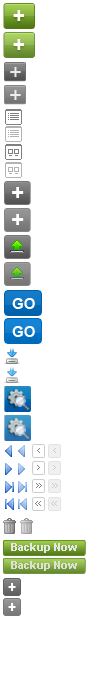
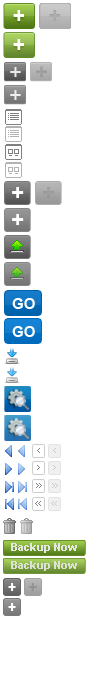
add forceAddClass class simulator and search rules pages

diff --git a/searchManager/WebContent/css/bigbets/bigbets.css b/searchManager/WebContent/css/bigbets/bigbets.css
@@ -120,6 +120,24 @@ background: linear-gradient(to bottom,  #dcdcdc 0%,#fafafa 100%); /* W3C */
 filter: progid:DXImageTransform.Microsoft.gradient( startColorstr='#dcdcdc', endColorstr='#fafafa',GradientType=0 ); /* IE6-8 */
 }
 
+/* highlight */
+div.tileView ul.boxContainer li.forceAddClass  { 
+	background: #f7efc1; /* Old browsers */
+	/* IE9 SVG, needs conditional override of 'filter' to 'none' */
[1 lines of base64/hex data omitted]
+	background: -moz-linear-gradient(top,  #f7efc1 0%, #f8f4d9 100%); /* FF3.6+ */
+	background: -webkit-gradient(linear, left top, left bottom, color-stop(0%,#f7efc1), color-stop(100%,#f8f4d9)); /* Chrome,Safari4+ */
+	background: -webkit-linear-gradient(top,  #f7efc1 0%,#f8f4d9 100%); /* Chrome10+,Safari5.1+ */
+	background: -o-linear-gradient(top,  #f7efc1 0%,#f8f4d9 100%); /* Opera 11.10+ */
+	background: -ms-linear-gradient(top,  #f7efc1 0%,#f8f4d9 100%); /* IE10+ */
+	background: linear-gradient(to bottom,  #f7efc1 0%,#f8f4d9 100%); /* W3C */
+	filter: progid:DXImageTransform.Microsoft.gradient( startColorstr='#f7efc1', endColorstr='#f8f4d9',GradientType=0 ); /* IE6-8 */
+	border:2px solid #f7e99b; padding:0 !important; float:left; display: inline; width:224px; margin:10px 7px; }
+
+div.tileView ul.boxContainer li.forceAddClass div.bgShade { 
+ background: transparent;
+}
+
 div.tileView ul.boxContainer li div.bgShade label { margin:0 !important; padding:0 }
 div.tileView ul.boxContainer li div.picArea { text-align: center; height: 100px; overflow: hidden; margin-top:17px; margin-bottom:10px;  }
 div.tileView ul.boxContainer li div.picArea img { border:1px solid #f2f2f2 }
@@ -156,6 +174,24 @@ background: linear-gradient(to bottom,  #dcdcdc 0%,#fafafa 100%); /* W3C */
 filter: progid:DXImageTransform.Microsoft.gradient( startColorstr='#dcdcdc', endColorstr='#fafafa',GradientType=0 ); /* IE6-8 */
 height: 20px; margin:0 !important; padding:8px;
 }
+
+/* highligh */
+div.listView ul.boxContainer li.forceAddClass  { background: #f7efc1; /* Old browsers */
+/* IE9 SVG, needs conditional override of 'filter' to 'none' */
[1 lines of base64/hex data omitted]
+background: -moz-linear-gradient(top,  #f7efc1 0%, #f8f4d9 100%); /* FF3.6+ */
+background: -webkit-gradient(linear, left top, left bottom, color-stop(0%,#f7efc1), color-stop(100%,#f8f4d9)); /* Chrome,Safari4+ */
+background: -webkit-linear-gradient(top,  #f7efc1 0%,#f8f4d9 100%); /* Chrome10+,Safari5.1+ */
+background: -o-linear-gradient(top,  #f7efc1 0%,#f8f4d9 100%); /* Opera 11.10+ */
+background: -ms-linear-gradient(top,  #f7efc1 0%,#f8f4d9 100%); /* IE10+ */
+background: linear-gradient(to bottom,  #f7efc1 0%,#f8f4d9 100%); /* W3C */
+filter: progid:DXImageTransform.Microsoft.gradient( startColorstr='#f7efc1', endColorstr='#f8f4d9',GradientType=0 ); /* IE6-8 */
+border:2px solid #f7e99b; padding:0 !important; float:left; display: inline; width:99%; margin:10px auto; }
+div.listView ul.boxContainer li.forceAddClass div.bgShade { 
+	background:transparent;
+	height: 20px; margin:0 !important; padding:8px;
+}
+
 div.listView ul.boxContainer li div.bgShade label { margin:0 !important; padding:0 }
 div.listView ul.boxContainer li div.picInfo { float:left; margin-left:10px }
 div.listView ul.boxContainer li div.picArea { height: 100px; overflow: hidden; margin:17px 10px 10px 10px; float:left }

diff --git a/searchManager/WebContent/css/theme/default/style.css b/searchManager/WebContent/css/theme/default/style.css
@@ -156,6 +156,12 @@ a.btnGreen:hover 				{ text-decoration:none;  }
 .cssReset a.btnLStyA div:hover,
 .cssReset a.btnLStyA div:active  { background-position: right -25px; color:#fff}
 
+.cssReset a.btnAddGreen_disable	{ background-position: -39px -3px; height: 12px; width: 0 !important; flaot:right; padding:7px 16px; cursor:default; margin-left:5px; position:relative  }
+.cssReset a.btnAddGrayMid_disable,
+.qtip a.btnAddGrayMid_disable	{ background-position: -24px -578px; height: 18px; width: 18px !important; flaot:right; cursor:default; margin-left:5px; position:relative  }
+.cssReset a div.btnAddGray_disable		{ background-position: -30px -62px; height: 20px; width: 22px; padding:0; cursor:pointer; margin:-4px 10px 0 5px  }
+.cssReset a div.btnAddGrayL_disable		{ background-position: -35px -181px; height: 24px; width: 27px; padding:0; cursor:pointer; margin:-4px 10px 0 5px  }
+
 .cssReset a.btnAddGreen			{ background-position: -3px -3px; height: 12px; width: 0 !important; flaot:right; padding:7px 16px; cursor:pointer; margin-left:5px; position:relative  }
 .cssReset a.btnAddGreen:hover	{ background-position: -3px -32px;  }
 .cssReset a div.btnAddGray		{ background-position: -4px -62px; height: 20px; width: 22px; padding:0; cursor:pointer; margin:-4px 10px 0 5px  }
@@ -276,6 +282,19 @@ font:bold 12px Arial, Helvetica, sans-serif; color:#313131; padding:12px 3px; }
 .cssReset .alt-bgGray 			{ background:#f3f2f2 }
 .cssReset .searchList ul		{ list-style:none; }
 .cssReset .searchList li		{ padding:7px 5px; list-style:none; }
+.cssReset .searchList li.forceAddClass 			{ 
+	background: #f7efc1; /* Old browsers */
+	/* IE9 SVG, needs conditional override of 'filter' to 'none' */
[1 lines of base64/hex data omitted]
+	background: -moz-linear-gradient(top,  #f7efc1 0%, #f8f4d9 100%); /* FF3.6+ */
+	background: -webkit-gradient(linear, left top, left bottom, color-stop(0%,#f7efc1), color-stop(100%,#f8f4d9)); /* Chrome,Safari4+ */
+	background: -webkit-linear-gradient(top,  #f7efc1 0%,#f8f4d9 100%); /* Chrome10+,Safari5.1+ */
+	background: -o-linear-gradient(top,  #f7efc1 0%,#f8f4d9 100%); /* Opera 11.10+ */
+	background: -ms-linear-gradient(top,  #f7efc1 0%,#f8f4d9 100%); /* IE10+ */
+	background: linear-gradient(to bottom,  #f7efc1 0%,#f8f4d9 100%); /* W3C */
+	filter: progid:DXImageTransform.Microsoft.gradient( startColorstr='#f7efc1', endColorstr='#f8f4d9',GradientType=0 ); /* IE6-8 */
+	border:2px solid #f7e99b;
+}
 .cssReset .itemImg				{ background:#fff }
 
 .cssReset .GraytopLine			{ background:url(images/bgSort.jpg) repeat-x; padding-top:5px; margin-top:8px }

diff --git a/searchManager/WebContent/css/theme/red/style.css b/searchManager/WebContent/css/theme/red/style.css
@@ -156,6 +156,12 @@ a.btnGreen:hover 				{ text-decoration:none;  }
 .cssReset a.btnLStyA div:hover,
 .cssReset a.btnLStyA div:active  { background-position: right -25px; color:#fff}
 
+.cssReset a.btnAddGreen_disable	{ background-position: -39px -3px; height: 12px; width: 0 !important; flaot:right; padding:7px 16px; cursor:default; margin-left:5px; position:relative  }
+.cssReset a.btnAddGrayMid_disable,
+.qtip a.btnAddGrayMid_disable	{ background-position: -24px -578px; height: 18px; width: 18px !important; flaot:right; cursor:default; margin-left:5px; position:relative  }
+.cssReset a div.btnAddGray_disable		{ background-position: -30px -62px; height: 20px; width: 22px; padding:0; cursor:pointer; margin:-4px 10px 0 5px  }
+.cssReset a div.btnAddGrayL_disable		{ background-position: -35px -181px; height: 24px; width: 27px; padding:0; cursor:pointer; margin:-4px 10px 0 5px  }
+
 .cssReset a.btnAddGreen			{ background-position: -3px -3px; height: 12px; width: 0 !important; flaot:right; padding:7px 16px; cursor:pointer; margin-left:5px; position:relative  }
 .cssReset a.btnAddGreen:hover	{ background-position: -3px -32px;  }
 .cssReset a div.btnAddGray		{ background-position: -4px -62px; height: 20px; width: 22px; padding:0; cursor:pointer; margin:-4px 10px 0 5px  }
@@ -276,6 +282,19 @@ font:bold 12px Arial, Helvetica, sans-serif; color:#313131; padding:12px 3px; }
 .cssReset .alt-bgGray 			{ background:#f3f2f2 }
 .cssReset .searchList ul		{ list-style:none; }
 .cssReset .searchList li		{ padding:7px 5px; list-style:none; }
+.cssReset .searchList li.forceAddClass 			{ 
+	background: #f7efc1; /* Old browsers */
+	/* IE9 SVG, needs conditional override of 'filter' to 'none' */
[1 lines of base64/hex data omitted]
+	background: -moz-linear-gradient(top,  #f7efc1 0%, #f8f4d9 100%); /* FF3.6+ */
+	background: -webkit-gradient(linear, left top, left bottom, color-stop(0%,#f7efc1), color-stop(100%,#f8f4d9)); /* Chrome,Safari4+ */
+	background: -webkit-linear-gradient(top,  #f7efc1 0%,#f8f4d9 100%); /* Chrome10+,Safari5.1+ */
+	background: -o-linear-gradient(top,  #f7efc1 0%,#f8f4d9 100%); /* Opera 11.10+ */
+	background: -ms-linear-gradient(top,  #f7efc1 0%,#f8f4d9 100%); /* IE10+ */
+	background: linear-gradient(to bottom,  #f7efc1 0%,#f8f4d9 100%); /* W3C */
+	filter: progid:DXImageTransform.Microsoft.gradient( startColorstr='#f7efc1', endColorstr='#f8f4d9',GradientType=0 ); /* IE6-8 */
+	border:2px solid #f7e99b;
+}
 .cssReset .itemImg				{ background:#fff }
 
 .cssReset .GraytopLine			{ background:url(images/bgSort.jpg) repeat-x; padding-top:5px; margin-top:8px }
